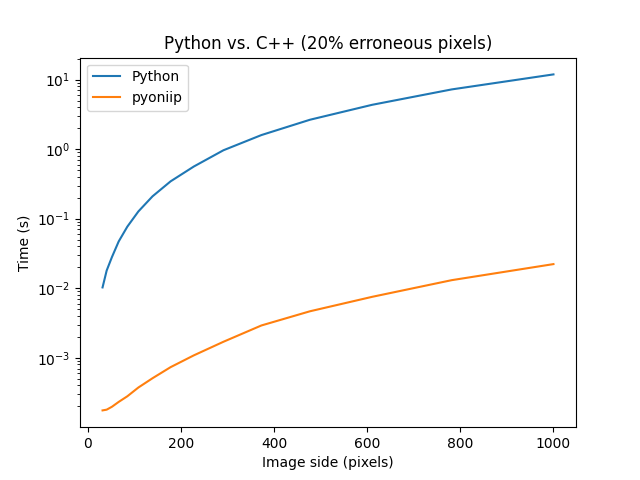
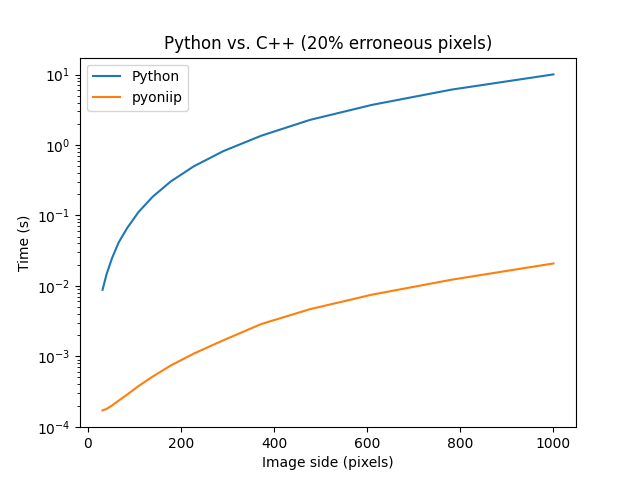
remove bounds checking and change loop bounds

diff --git a/src/algorithm.py b/src/algorithm.py
@@ -5,13 +5,9 @@ import cv2
 
 def impute_image(image: npt.NDArray[np.uint16], calibration_image: npt.NDArray[np.float32]):
     # divide and conquer strategy - check pixels between 1:end-1
-    for (i, j), calibration_value in np.ndenumerate(calibration_image):
-
-        # skip boundary in this loop
-
-        if i == 0 or j == 0 or i == calibration_image.shape[0] - 1 or j == calibration_image.shape[1] - 1:
-            pass
-        else:
+    for i in range(1, calibration_image.shape[0] - 1):
+        for j in range(1, calibration_image.shape[1] - 1):
+            calibration_value = calibration_image[i, j]
 
             # get neighbouring indices
             neighbouring_indices = [
